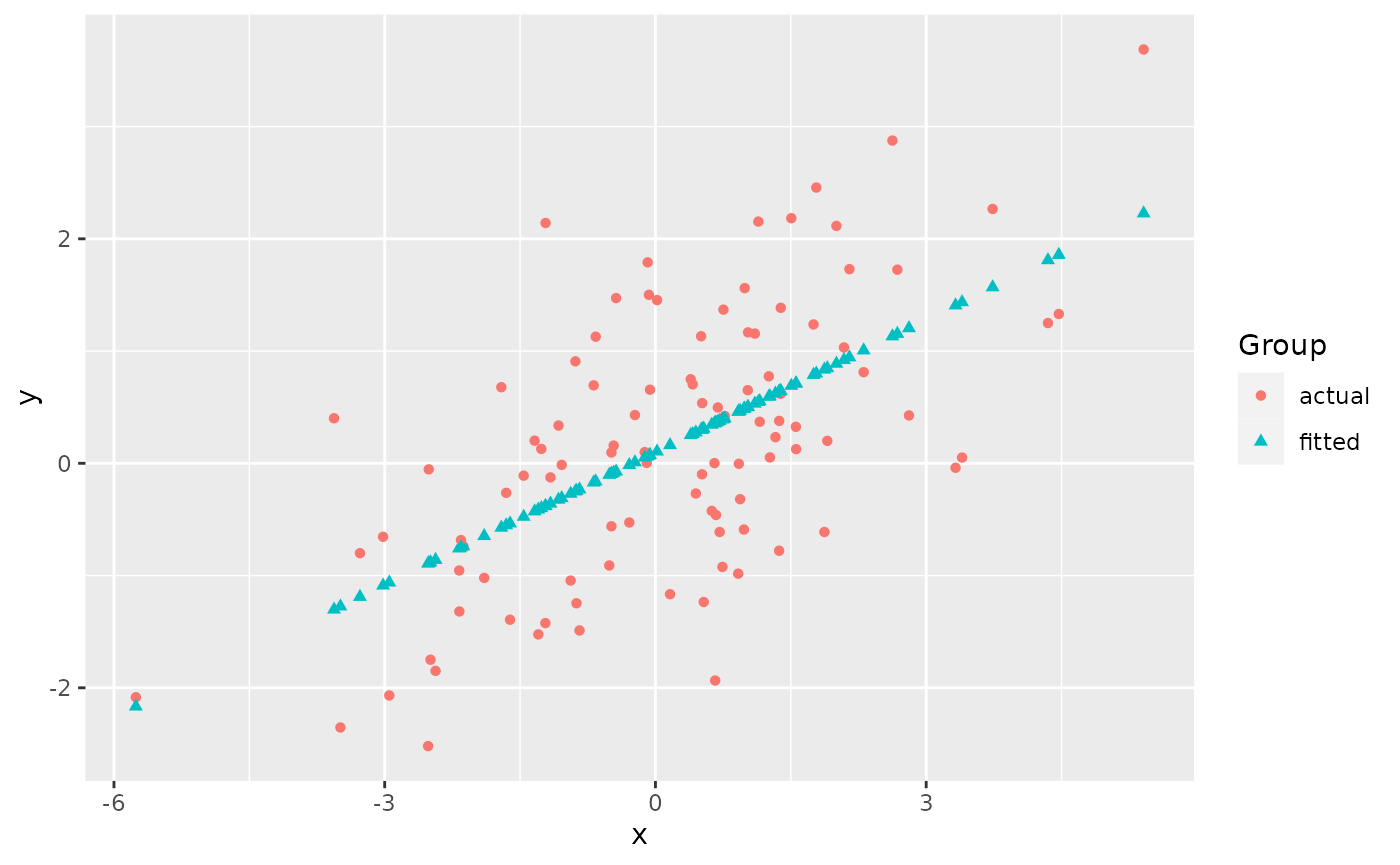
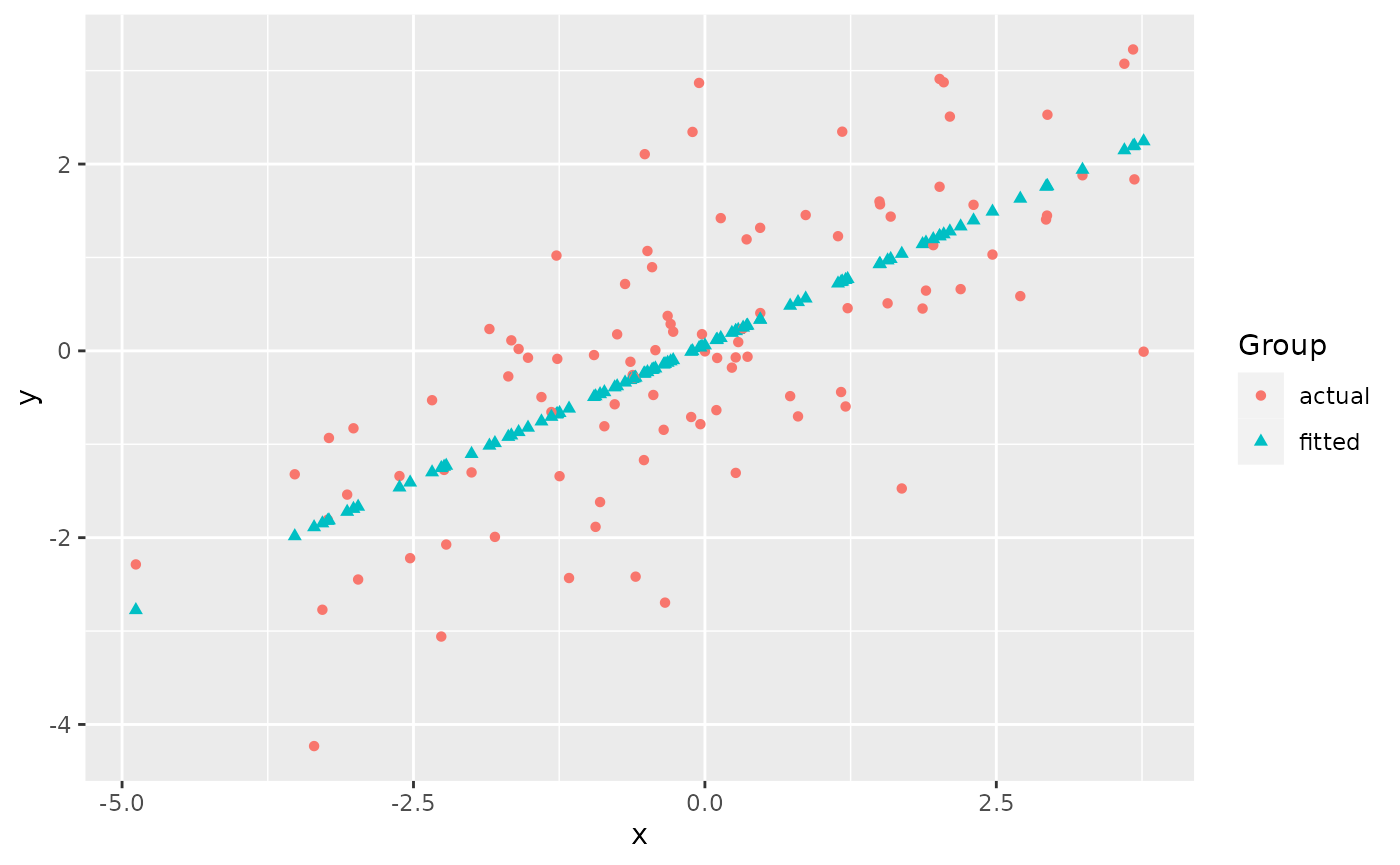
Built site for ggmatplot: 0.1.2@ce59798

diff --git a/articles/ggmatplot.html b/articles/ggmatplot.html
@@ -103,7 +103,7 @@
 <span class="va">x</span> <span class="op">&lt;-</span> <span class="fu"><a href="https://rdrr.io/r/base/c.html" class="external-link">c</a></span><span class="op">(</span><span class="fu"><a href="https://rdrr.io/r/stats/Normal.html" class="external-link">rnorm</a></span><span class="op">(</span><span class="fl">100</span>, sd <span class="op">=</span> <span class="fl">2</span><span class="op">)</span><span class="op">)</span>
 
 <span class="fu"><a href="https://rdrr.io/r/utils/head.html" class="external-link">head</a></span><span class="op">(</span><span class="va">x</span><span class="op">)</span>
-<span class="co">#&gt; [1]  0.9803361  0.5351112  0.6707885 -2.5120167  2.6256198  0.6911889</span>
+<span class="co">#&gt; [1]  3.6733342 -0.2720874 -1.2468253  0.2647770  1.2244869  2.3045773</span>
 
 <span class="co"># matrix z</span>
 <span class="va">y</span> <span class="op">&lt;-</span> <span class="va">x</span> <span class="op">*</span> <span class="fl">0.5</span> <span class="op">+</span> <span class="fu"><a href="https://rdrr.io/r/stats/Normal.html" class="external-link">rnorm</a></span><span class="op">(</span><span class="fl">100</span>, sd <span class="op">=</span> <span class="fl">1</span><span class="op">)</span>
@@ -112,13 +112,13 @@
            fitted <span class="op">=</span> <span class="va">fit.y</span><span class="op">)</span>
 
 <span class="fu"><a href="https://rdrr.io/r/utils/head.html" class="external-link">head</a></span><span class="op">(</span><span class="va">z</span><span class="op">)</span>
-<span class="co">#&gt;        actual     fitted</span>
-<span class="co">#&gt; 1 -0.58970837  0.4842572</span>
-<span class="co">#&gt; 2 -1.23577232  0.3090960</span>
-<span class="co">#&gt; 3 -0.46050292  0.3624744</span>
-<span class="co">#&gt; 4 -0.05395824 -0.8897110</span>
-<span class="co">#&gt; 5  2.87556427  1.1315480</span>
-<span class="co">#&gt; 6  0.49743446  0.3705004</span></code></pre></div>
+<span class="co">#&gt;       actual      fitted</span>
+<span class="co">#&gt; 1  3.2271223  2.19142682</span>
+<span class="co">#&gt; 2  0.2048980 -0.09924425</span>
+<span class="co">#&gt; 3 -1.3417792 -0.66516701</span>
+<span class="co">#&gt; 4 -1.3066793  0.21245372</span>
+<span class="co">#&gt; 5  0.4568096  0.76965133</span>
+<span class="co">#&gt; 6  1.5633800  1.39674067</span></code></pre></div>
 <p><code>ggmatplot</code> plots vector <code>x</code> against each column of matrix <code>z</code> using the default <code>plot_type = "point"</code>. This will be represented on the resulting plot as two groups, identified using different shapes and colors.</p>
 <div class="sourceCode" id="cb2"><pre class="downlit sourceCode r">
 <code class="sourceCode R"><span class="kw"><a href="https://rdrr.io/r/base/library.html" class="external-link">library</a></span><span class="op">(</span><span class="va"><a href="https://github.com/xuan-liang/ggmatplot" class="external-link">ggmatplot</a></span><span class="op">)</span>

diff --git a/index.html b/index.html
@@ -84,6 +84,8 @@
 
       </header><div class="row">
   <div class="contents col-md-9">
+
+
 <div class="section level1">
 <div class="page-header"><h1 id="ggmatplot">ggmatplot<a class="anchor" aria-label="anchor" href="#ggmatplot"></a>
 </h1></div>
@@ -289,6 +291,7 @@
 <p><img src="reference/figures/README-errorplot-1.png" width="80%"></p>
 </div>
 </div>
+
   </div>
 
   <div class="col-md-3 hidden-xs hidden-sm" id="pkgdown-sidebar">
@@ -327,7 +330,12 @@
 </ul>
 </div>
 
-
+<div class="dev-status">
+<h2 data-toc-skip>Dev status</h2>
+<ul class="list-unstyled">
+<li><a href="https://zenodo.org/badge/latestdoi/195039918" class="external-link"><img src="https://zenodo.org/badge/195039918.svg" alt="DOI"></a></li>
+</ul>
+</div>
 
   </div>
 </div>
